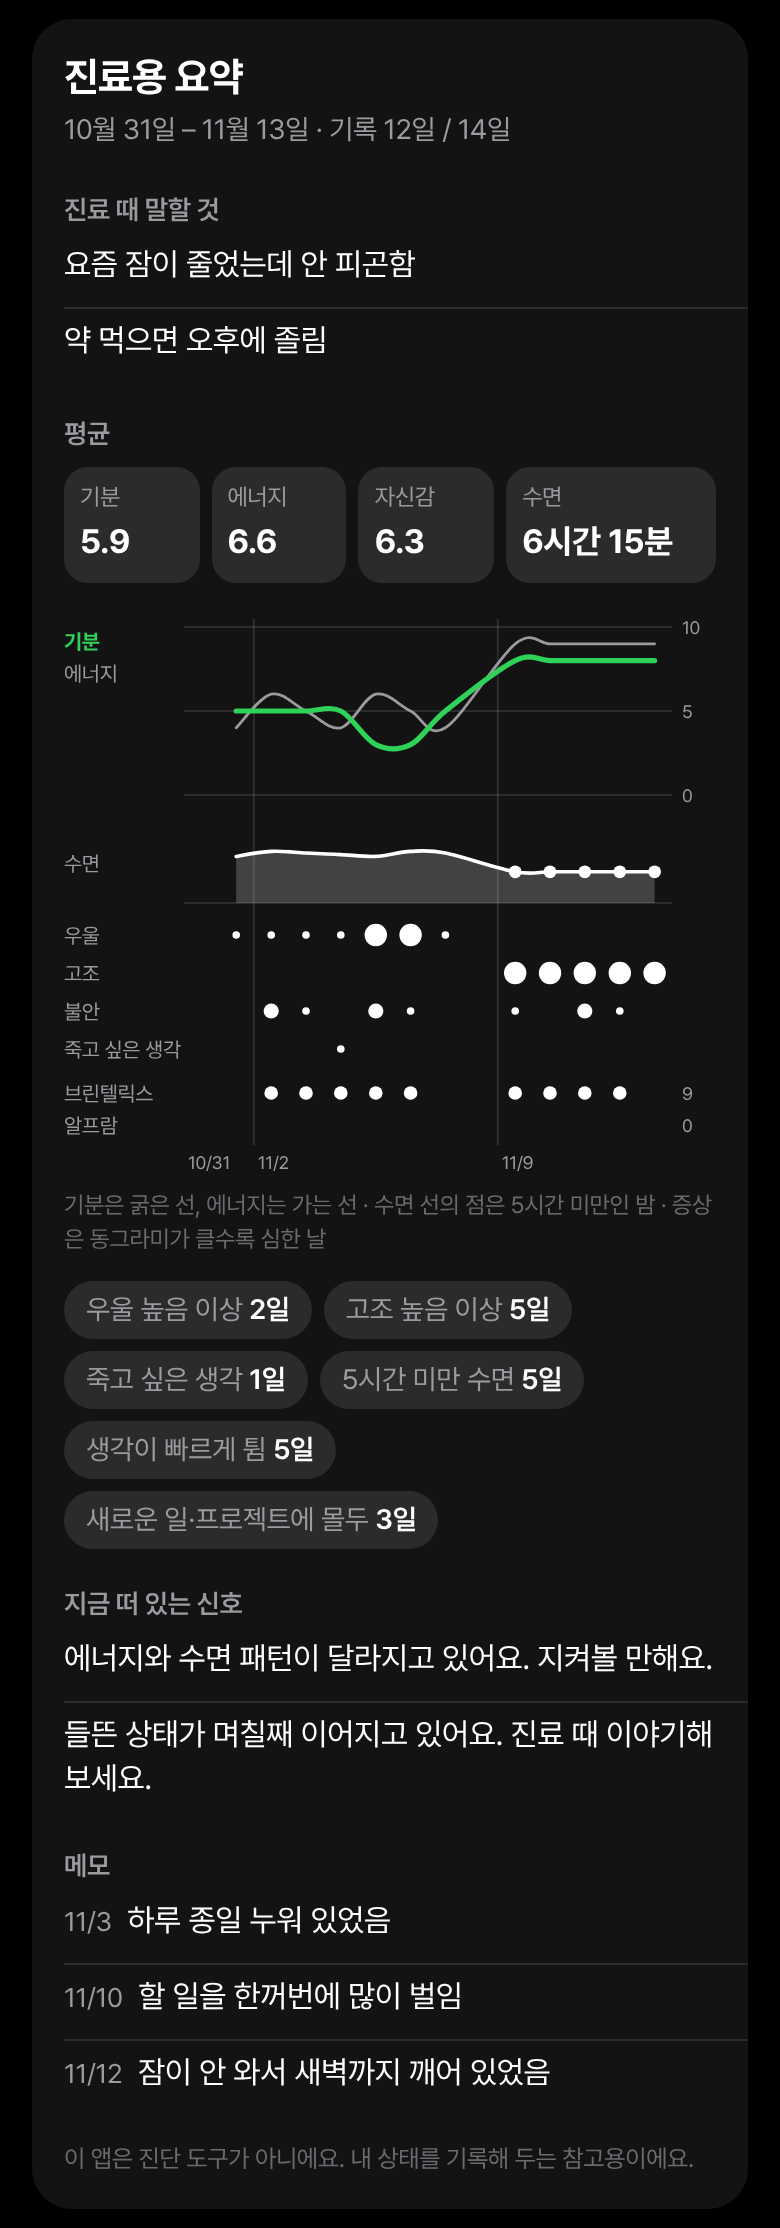
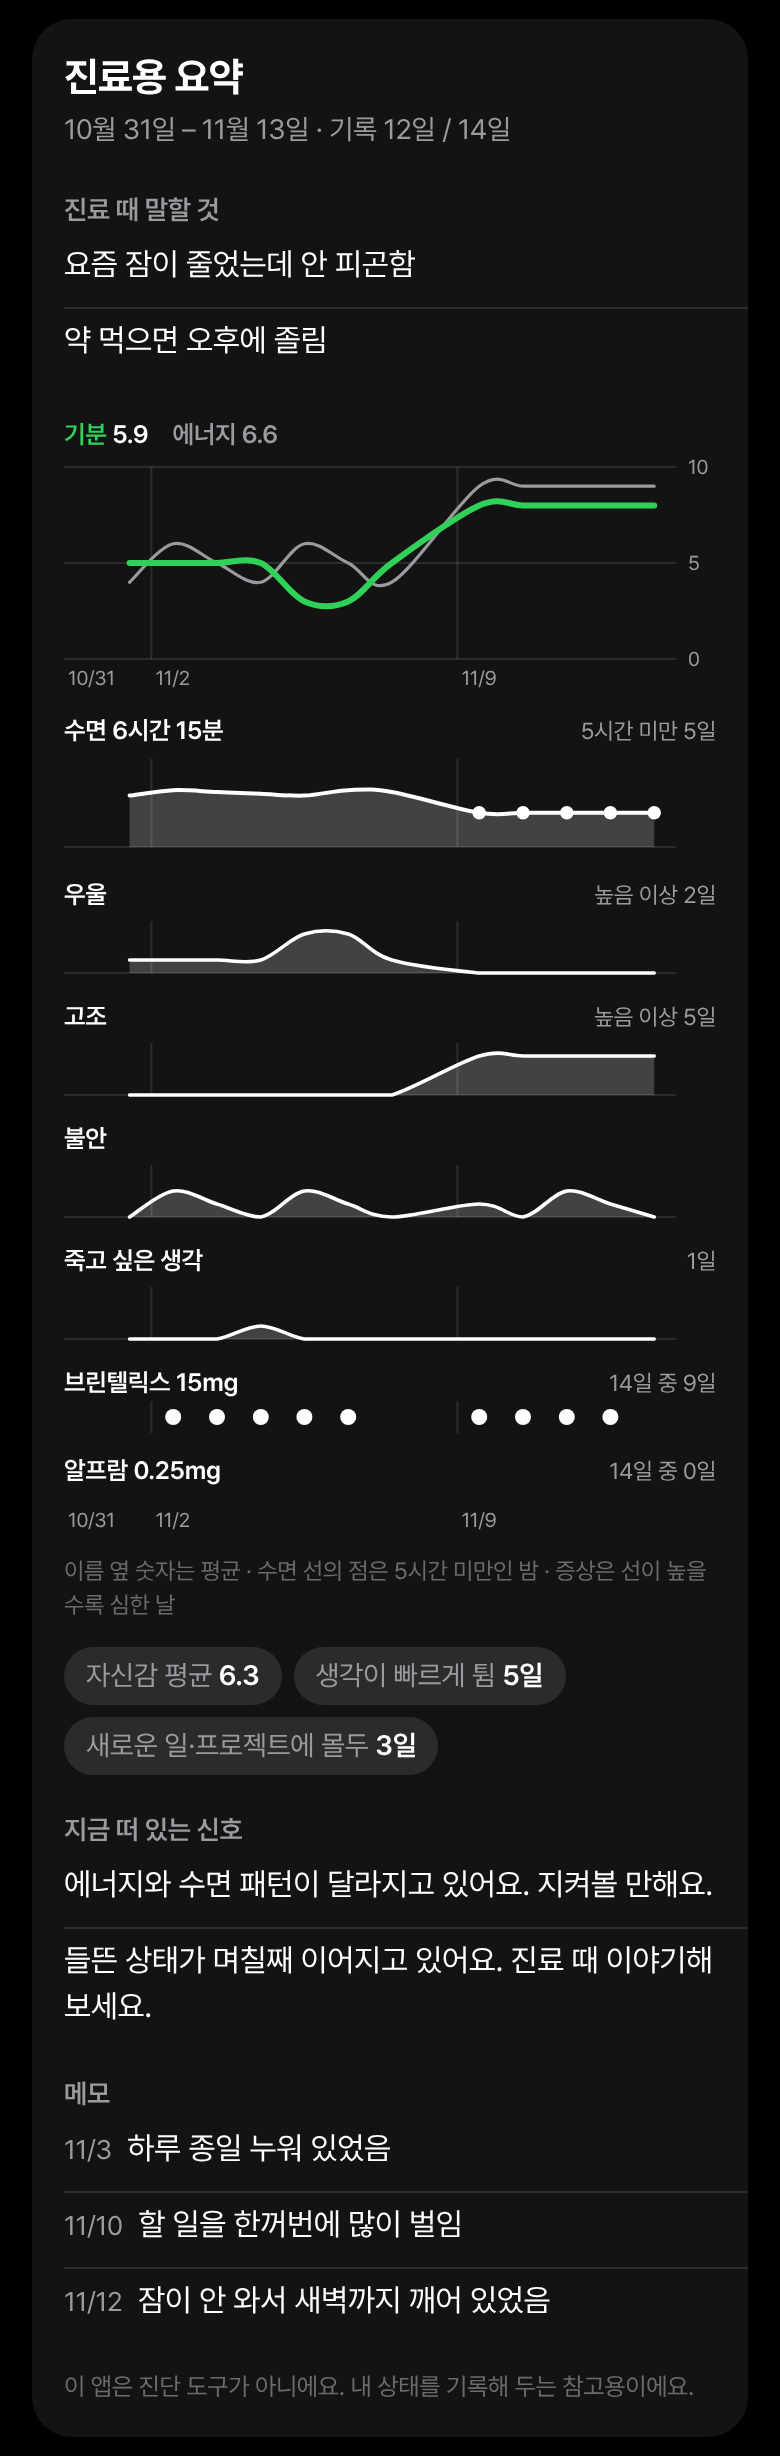
Tide: clinic picture stacks one labelled chart per item
The summary picture was hard to read: small labels in a narrow left column and a grid of same-looking dots. Each item now gets its own full-width row with a larger name (and average) on the left and a one-line count on the right; symptoms are smooth curves like mood instead of sized dots. The separate average boxes and the chips that repeated the picture are gone.

Claude-Session: https://claude.ai/code/session_01Du4KAy7crrN67i73oW7iBF

diff --git a/mood/js/views/clinic.js b/mood/js/views/clinic.js
@@ -25,80 +25,90 @@ function nextText() {
   return left > 0 ? F('진료까지 {0}일', left) : left === 0 ? T('오늘 진료') : '';
 }
 
-// 한눈에 보는 그림: 날짜를 가로로 맞춰 놓고 위에서부터
-//   기분(굵은 선)·에너지(가는 선) → 수면(선, 5시간 미만인 밤에 점) → 증상(동그라미가 클수록 심함) → 약(먹은 날에 점) → 생리(점)
-// 를 한 장에 쌓는다. 선은 전부 부드러운 곡선(점선 없음), 표시는 전부 동그라미로 통일한다.
-// 색은 CSS 변수를 따라가서 다크·라이트·인쇄에서 그대로 읽힌다.
+// 한눈에 보는 그림: 날짜를 가로로 맞춰 놓고 항목마다 한 칸씩 위에서 아래로 쌓는다.
+// 칸마다 왼쪽 위에 이름(과 평균), 오른쪽 위에 한 줄 요약, 그 아래에 그림이 온다.
+//   기분·에너지(곡선) → 수면(곡선, 5시간 미만인 밤에 점) → 증상(곡선, 높을수록 심함) → 약·생리(그날에 점)
+// 선은 전부 부드러운 실선, 표시는 전부 동그라미다. 색은 CSS 변수를 따라가서 다크·라이트·인쇄에서 그대로 읽힌다.
 function figure(s, width) {
-  const n = s.dates.length, L = 60, R = 22, pw = width - L - R, col = pw / n;
-  const cx = (i) => L + col * (i + 0.5);
+  const n = s.dates.length, pw = width - 20, col = pw / n;
+  const cx = (i) => col * (i + 0.5);
   const ink = 'style="fill:var(--ink)"', mutedText = 'style="fill:var(--muted)"';
   const accent = tone('mood', 10) || 'var(--ink)';
-  const label = (y, text, style) => `<text x="0" y="${y}" font-size="10.5" ${style || mutedText}>${text}</text>`;
-  let out = '', y = 4;
+  const marks = s.dates.map((d, i) => (i === 0 || parse(d).getDay() === 1 ? i : -1)).filter((i) => i >= 0);
+  let out = '', y = 12;
+
+  const head = (left, right) => {
+    out += `<text x="0" y="${y}" font-size="12.5" font-weight="600" ${ink}>${left}</text>`;
+    if (right) out += `<text x="${width}" y="${y}" font-size="11.5" text-anchor="end" ${mutedText}>${right}</text>`;
+  };
+  // 주마다(월요일) 세로줄: 그림이 있는 칸 안에만 긋는다
+  const weekLines = (y1, y2) => marks.filter(Boolean).forEach((i) => {
+    out += `<line x1="${(col * i).toFixed(1)}" x2="${(col * i).toFixed(1)}" y1="${y1}" y2="${y2}" style="stroke:var(--line)"/>`;
+  });
+  const dateLabels = (at) => marks.forEach((i) => {
+    out += `<text x="${(col * i + 2).toFixed(1)}" y="${at}" font-size="10" ${mutedText}>${shortDate(s.dates[i])}</text>`;
+  });
+  const points = (key, yOf) => s.days.map((e, i) => (e && e[key] != null ? [cx(i), yOf(e[key]), e[key]] : null)).filter(Boolean);
+  // 값이 있는 날들을 부드러운 곡선으로 잇는다 (하루뿐이면 점 하나). area가 있으면 곡선 아래를 옅게 채운다.
+  const curve = (pts, yMin, yMax, color, w, area) => {
+    if (pts.length < 2) { pts.forEach((p) => { out += `<circle cx="${p[0].toFixed(1)}" cy="${p[1].toFixed(1)}" r="2.6" style="fill:${color}"/>`; }); return; }
+    const d = smoothPath(pts, yMin, yMax);
+    if (area) out += `<path d="${d}L${pts[pts.length - 1][0].toFixed(1)},${yMax}L${pts[0][0].toFixed(1)},${yMax}Z" style="fill:var(--fill)" stroke="none"/>`;
+    out += `<path d="${d}" fill="none" stroke-linejoin="round" stroke-linecap="round" style="stroke:${color}" stroke-width="${w}"/>`;
+  };
+  const floor = (at) => { out += `<line x1="0" x2="${pw}" y1="${at}" y2="${at}" style="stroke:var(--line)"/>`; };
+  const dots = (has) => {
+    const r = Math.max(2, Math.min(col / 2 - 1, 4));
+    s.dates.forEach((d, i) => { if (has(d, s.days[i])) out += `<circle cx="${cx(i).toFixed(1)}" cy="${y + 13}" r="${r.toFixed(1)}" ${ink}/>`; });
+    weekLines(y + 5, y + 21);
+  };
+  const avgOf = (st) => (st ? ` ${one(st.avg)}` : '');
 
   // 1. 기분 · 에너지 (0~10)
-  const SH = 84, top = y, sy = (v) => top + (1 - v / 10) * SH;
-  [0, 5, 10].forEach((v) => {
-    out += `<line x1="${L}" x2="${L + pw}" y1="${sy(v)}" y2="${sy(v)}" style="stroke:var(--line)"/><text x="${L + pw + 5}" y="${sy(v) + 3.5}" font-size="9" ${mutedText}>${v}</text>`;
-  });
-  // 값이 있는 날들을 부드러운 곡선으로 잇는다 (하루뿐이면 점 하나)
-  const curve = (pts, yMin, yMax, style) => (pts.length > 1
-    ? `<path d="${smoothPath(pts, yMin, yMax)}" fill="none" stroke-linejoin="round" stroke-linecap="round" ${style}/>`
-    : pts.map((p) => `<circle cx="${p[0].toFixed(1)}" cy="${p[1].toFixed(1)}" r="2.4" ${style.replace('stroke:', 'fill:')}/>`).join(''));
-  const points = (key, yOf) => s.days.map((e, i) => (e && e[key] != null ? [cx(i), yOf(e[key]), e[key]] : null)).filter(Boolean);
-  out += curve(points('energy', sy), top, top + SH, 'style="stroke:var(--muted)" stroke-width="1.4"');
-  out += curve(points('mood', sy), top, top + SH, `style="stroke:${accent}" stroke-width="2.6"`);
-  out += `<text x="0" y="${top + 11}" font-size="10.5" font-weight="700" style="fill:${accent}">${T('기분')}</text>${label(top + 27, T('에너지'))}`;
-  y = top + SH + 14;
+  head(`<tspan style="fill:${accent}">${T('기분')}</tspan>${avgOf(s.mood)}<tspan dx="12" ${mutedText}>${T('에너지')}${avgOf(s.energy)}</tspan>`);
+  const SH = 96, top = y + 12, sy = (v) => top + (1 - v / 10) * SH;
+  [0, 5, 10].forEach((v) => { floor(sy(v)); out += `<text x="${pw + 6}" y="${sy(v) + 3.5}" font-size="10" ${mutedText}>${v}</text>`; });
+  weekLines(top, top + SH);
+  curve(points('energy', sy), top, top + SH, 'var(--muted)', 1.6);
+  curve(points('mood', sy), top, top + SH, accent, 3);
+  dateLabels(top + SH + 13);
+  y = top + SH + 40;
 
-  // 2. 수면 (0~12시간): 곡선 아래를 옅게 채우고, 5시간 미만인 밤에는 점을 찍는다
-  const BH = 40, base = y + BH, slY = (m) => base - Math.min(m, 720) / 720 * BH;
-  const sleepPts = points('sleepMin', slY);
-  if (sleepPts.length > 1) {
-    out += `<path d="${smoothPath(sleepPts, y, base)}L${sleepPts[sleepPts.length - 1][0].toFixed(1)},${base}L${sleepPts[0][0].toFixed(1)},${base}Z" style="fill:var(--fill)" stroke="none"/>`;
-  }
-  out += curve(sleepPts, y, base, 'style="stroke:var(--ink)" stroke-width="1.8"');
-  sleepPts.filter((p) => p[2] < SHORT_SLEEP).forEach((p) => { out += `<circle cx="${p[0].toFixed(1)}" cy="${p[1].toFixed(1)}" r="3.2" ${ink}/>`; });
-  out += `<line x1="${L}" x2="${L + pw}" y1="${base}" y2="${base}" style="stroke:var(--line)"/>`;
-  out += label(y + 24, T('수면'));
-  y = base + 16;
+  // 2. 수면 (0~12시간): 5시간 미만인 밤에는 점을 찍는다
+  head(`${T('수면')}${s.sleep ? ` ${durText(Math.round(s.sleep.avg))}` : ''}`, s.shortSleep.length ? F('5시간 미만 {0}일', s.shortSleep.length) : '');
+  const BH = 44, sTop = y + 10, base = sTop + BH, sleepPts = points('sleepMin', (m) => base - Math.min(m, 720) / 720 * BH);
+  weekLines(sTop, base);
+  curve(sleepPts, sTop, base, 'var(--ink)', 2, true);
+  sleepPts.filter((p) => p[2] < SHORT_SLEEP).forEach((p) => { out += `<circle cx="${p[0].toFixed(1)}" cy="${p[1].toFixed(1)}" r="3.4" ${ink}/>`; });
+  floor(base);
+  y = base + 28;
 
-  // 3. 증상: 동그라미 크기가 정도 (없음은 안 그린다)
-  const rmax = Math.max(2, Math.min(col / 2 - 0.5, 7.5));
+  // 3. 증상 (없음~매우 높음): 선이 높을수록 심한 날. 한 번도 없었으면 그림 없이 "없음"만 적는다.
   [['dep', T('우울')], ['elev', T('고조')], ['anx', T('불안')], ['si', T('죽고 싶은 생각')]].forEach(([key, name]) => {
-    out += label(y + 4, name);
-    s.days.forEach((e, i) => { if (e && e[key]) out += `<circle cx="${cx(i).toFixed(1)}" cy="${y}" r="${(rmax * e[key] / 4).toFixed(1)}" ${ink}/>`; });
-    y += 19;
+    const any = s.days.some((e) => e && e[key]), high = s.high[key].length;
+    head(name, high ? F(key === 'si' ? '{0}일' : '높음 이상 {0}일', high) : any ? '' : T('없음'));
+    if (!any) { y += 24; return; }
+    const H = 26, t = y + 9, b = t + H;
+    weekLines(t, b);
+    curve(points(key, (v) => b - v / 4 * H), t, b, 'var(--ink)', 1.8, true);
+    floor(b);
+    y = b + 26;
   });
-  y += 3;
 
-  // 4. 약: 먹은 날에 점, 오른쪽 끝에 먹은 날 수
-  const mr = Math.max(1.6, Math.min(col / 2 - 1, 3.4));
+  // 4. 약 · 생리: 그날에 점
   s.meds.forEach(([m, count]) => {
-    out += label(y + 4, esc(m.name.length > 5 ? `${m.name.slice(0, 5)}…` : m.name));
-    s.dates.forEach((d, i) => {
-      if (medsFor(d).some((x) => medKey(x) === medKey(m))) out += `<circle cx="${cx(i).toFixed(1)}" cy="${y}" r="${mr.toFixed(1)}" ${ink}/>`;
-    });
-    out += `<text x="${L + pw + 5}" y="${y + 3.5}" font-size="9" ${mutedText}>${count}</text>`;
-    y += 16;
+    head(esc(`${m.name}${m.dose ? ` ${m.dose}` : ''}`), F('{0}일 중 {1}일', n, count));
+    if (count) dots((d) => medsFor(d).some((x) => medKey(x) === medKey(m)));
+    y += count ? 44 : 24;
   });
-
-  // 5. 생리: 그날에 점
   if (s.period.length) {
-    out += label(y + 4, T('생리'));
-    s.days.forEach((e, i) => { if (e && e.period) out += `<circle cx="${cx(i).toFixed(1)}" cy="${y}" r="${mr.toFixed(1)}" ${ink}/>`; });
-    y += 16;
+    head(T('생리'), F('{0}일', s.period.length));
+    dots((d, e) => e && e.period);
+    y += 44;
   }
-
-  // 날짜 눈금: 주마다(월요일) 세로줄과 날짜
-  let weeks = '';
-  s.dates.forEach((d, i) => {
-    if (parse(d).getDay() !== 1 && i !== 0) return;
-    if (i) weeks += `<line x1="${(L + col * i).toFixed(1)}" x2="${(L + col * i).toFixed(1)}" y1="0" y2="${y - 6}" style="stroke:var(--line)"/>`;
-    weeks += `<text x="${(L + col * i + 2).toFixed(1)}" y="${y + 6}" font-size="9" ${mutedText}>${shortDate(d)}</text>`;
-  });
-  return `<svg id="sum-fig" width="${width}" height="${y + 10}" role="img" aria-label="${T('진료용 요약')}">${weeks}${out}</svg>`;
+  dateLabels(y);
+  y += 8;
+  return `<svg id="sum-fig" width="${width}" height="${y}" role="img" aria-label="${T('진료용 요약')}">${out}</svg>`;
 }
 
 // 요약에 들어갈 줄들: [이름, 내용]. 화면과 복사용 글이 같은 줄을 쓴다.
@@ -121,21 +131,15 @@ function summaryRows(s) {
 export function summaryHtml(weeks) {
   const s = summary(weeks), talk = clinicData().notes;
   const width = Math.max(240, Math.min(app.clientWidth, 480) - 32 - 32);
-  const stat = (name, st, fmt) => `<div class="sum-stat"><span>${name}</span><b>${st ? fmt(st.avg) : '–'}</b></div>`;
-  // 눈에 띄는 것은 짧은 딱지로: 날짜는 그림에서 보이니 며칠인지만 적는다
+  // 그림에 안 나오는 것만 짧은 딱지로: 자신감 평균, 기분이 높았던 날 체크한 항목
   const chips = [
-    [T('우울 높음 이상'), s.high.dep.length], [T('고조 높음 이상'), s.high.elev.length], [T('불안 높음 이상'), s.high.anx.length],
-    [T('죽고 싶은 생각'), s.high.si.length], [T('5시간 미만 수면'), s.shortSleep.length], ...s.signs,
-  ].filter(([, c]) => c).map(([name, c]) => `<span class="sum-chip">${esc(name)} <b>${F('{0}일', c)}</b></span>`).join('');
+    ...(s.conf ? [[T('자신감 평균'), one(s.conf.avg)]] : []), ...s.signs.map(([name, c]) => [name, F('{0}일', c)]),
+  ].map(([name, value]) => `<span class="sum-chip">${esc(name)} <b>${value}</b></span>`).join('');
   return `
     <div class="sum-top"><b>${T('진료용 요약')}</b><span>${md(parse(s.dates[0]))} – ${md(parse(s.dates[s.dates.length - 1]))} · ${F('기록 {0}일 / {1}일', s.got.length, s.dates.length)}</span></div>
     ${talk.length ? `<div class="sum-h">${T('진료 때 말할 것')}</div>${talk.map((x) => `<div class="li say">${esc(x)}</div>`).join('')}` : ''}
-    <div class="sum-h">${T('평균')}</div>
-    <div class="sum-stats">
-      ${stat(T('기분'), s.mood, one)}${stat(T('에너지'), s.energy, one)}${stat(T('자신감'), s.conf, one)}${stat(T('수면'), s.sleep, (m) => durText(Math.round(m)))}
-    </div>
     <div class="sum-fig">${figure(s, width)}</div>
-    <p class="sum-key">${T('기분은 굵은 선, 에너지는 가는 선 · 수면 선의 점은 5시간 미만인 밤 · 증상은 동그라미가 클수록 심한 날')}</p>
+    <p class="sum-key">${T('이름 옆 숫자는 평균 · 수면 선의 점은 5시간 미만인 밤 · 증상은 선이 높을수록 심한 날')}</p>
     ${chips ? `<div class="sum-chips">${chips}</div>` : ''}
     ${s.signals.length ? `<div class="sum-h">${T('지금 떠 있는 신호')}</div>${s.signals.map((x) => `<div class="li say">${esc(x)}</div>`).join('')}` : ''}
     ${s.notes.length ? `<div class="sum-h">${T('메모')}</div>${s.notes.map(([d, note]) => `<div class="li say note"><small>${shortDate(d)}</small> ${esc(note)}</div>`).join('')}` : ''}

diff --git a/mood/app.css b/mood/app.css
@@ -365,14 +365,10 @@ input[type=date] { border: 0; outline: none; background: var(--card2); color: va
 .lock-pad .lock-txt { background: none; font-family: inherit; font-size: calc(14px * var(--fs, 1.12)); color: var(--muted); }
 
 /* 진료용 요약: 숫자 네 칸, 한눈에 보는 그림, 딱지 */
-.sum-stats { display: grid; grid-template-columns: 1fr 1fr 1fr 1.55fr; gap: 6px; padding: 6px 16px 4px; }
-.sum-stat { background: var(--card2); border-radius: 12px; padding: 8px 8px 9px; min-width: 0; }
-.sum-stat span { display: block; color: var(--muted); font-size: calc(10.5px * var(--fs, 1.12)); white-space: nowrap; overflow: hidden; text-overflow: ellipsis; }
-.sum-stat b { display: block; font-family: var(--round); font-size: calc(15px * var(--fs, 1.12)); margin-top: 2px; white-space: nowrap; }
-.sum-fig { padding: 14px 16px 0; }
+.sum-fig { padding: 18px 16px 0; }
 .sum-fig svg { display: block; overflow: visible; font-family: inherit; }
 .sum-key { color: var(--faint); font-size: calc(10.5px * var(--fs, 1.12)); margin: 6px 16px 0; line-height: 1.45; }
 .sum-chips { display: flex; flex-wrap: wrap; gap: 6px; padding: 12px 16px 2px; }
 .sum-chip { background: var(--card2); border-radius: 999px; padding: 5px 11px; font-size: calc(12.5px * var(--fs, 1.12)); color: var(--muted); }
 .sum-chip b { color: var(--text); font-weight: 600; }
-@media print { .sum-stat, .sum-chip { border: 1px solid #ccc; } }
+@media print { .sum-chip { border: 1px solid #ccc; } }

diff --git a/mood/tests/smoke.js b/mood/tests/smoke.js
@@ -198,8 +198,8 @@ function seed() {
 
   // 5-2. 진료 탭: 다음 진료일, 말할 것, 요약
   await page.click('[data-tab=clinic]');
-  check('진료용 요약에 그림과 눈에 띄는 날, 약이 나옴', (await page.$$('#sum-fig circle')).length > 10 && (await page.$$('#sum-fig path')).length >= 3 && (await page.$$('#sum-fig rect')).length === 0
-    && (await text('#summary')).includes('고조 높음 이상') && (await text('#sum-fig')).includes('브린텔릭스') && (await text('#summary')).includes('5시간 미만 수면'));
+  check('진료용 요약에 그림과 눈에 띄는 날, 약이 나옴', (await page.$$('#sum-fig circle')).length > 3 && (await page.$$('#sum-fig path')).length >= 5 && (await page.$$('#sum-fig rect')).length === 0
+    && (await text('#sum-fig')).includes('높음 이상') && (await text('#sum-fig')).includes('브린텔릭스') && (await text('#sum-fig')).includes('5시간 미만'));
   check('요약 그림이 카드 밖으로 안 넘침', await page.evaluate(() => document.querySelector('#sum-fig').getBoundingClientRect().right <= document.querySelector('#summary').getBoundingClientRect().right));
   await page.fill('#c-note', '약 먹으면 오후에 졸림'); await page.press('#c-note', 'Enter');
   check('말할 것 추가 (엔터)', (await store()).clinic.notes[0] === '약 먹으면 오후에 졸림' && (await text('#summary')).includes('약 먹으면 오후에 졸림'));

diff --git a/mood/js/i18n.js b/mood/js/i18n.js
@@ -50,7 +50,10 @@ const DICT = {
   '추가': 'Add',
   '진료용 요약': 'Summary for your appointment',
   '평균 (가장 낮은 날–가장 높은 날)': 'Average (lowest–highest day)',
-  '기분은 굵은 선, 에너지는 가는 선 · 수면 선의 점은 5시간 미만인 밤 · 증상은 동그라미가 클수록 심한 날': 'Mood is the thick line, energy the thin line · dots on the sleep line are nights under 5 hours · larger symptom dots mean a harder day',
+  '이름 옆 숫자는 평균 · 수면 선의 점은 5시간 미만인 밤 · 증상은 선이 높을수록 심한 날': 'Numbers beside names are averages · dots on the sleep line are nights under 5 hours · a higher symptom line means a harder day',
+  '자신감 평균': 'Confidence avg',
+  '5시간 미만 {0}일': 'Under 5 h on {0} days',
+  '높음 이상 {0}일': 'High or above on {0} days',
   '눈에 띄는 날': 'Days that stand out',
   '지금 떠 있는 신호': 'Current signals',
   '기분이 높았던 날 체크한 항목': 'Items checked on high days',

diff --git a/mood/sw.js b/mood/sw.js
@@ -1,7 +1,7 @@
 // 오프라인에서도 열리도록 앱 파일을 저장해 둔다.
 // 인터넷이 될 때는 항상 최신 파일을 먼저 받아오고, 안 될 때만 저장본을 쓴다.
 // 앱 파일을 바꿔서 올릴 때마다 CACHE 숫자를 하나 올린다. js/ 에 파일을 더하면 JS 목록에도 더한다.
-const CACHE = 'tide-v46';
+const CACHE = 'tide-v47';
 const JS = ['main', 'config', 'i18n', 'constants', 'store', 'dates', 'theme', 'icons', 'dom', 'state', 'meds', 'analysis', 'files', 'render', 'swipe', 'lock',
   'views/today', 'views/trend', 'views/insight', 'views/record', 'views/settings', 'views/clinic', 'views/notes'];
 const FILES = ['./', 'index.html', 'app.css', 'manifest.webmanifest',

diff --git a/mood/js/config.js b/mood/js/config.js
@@ -2,4 +2,4 @@
 export const KEY = 'tide.v1', OLD_KEY = 'harugyeol.v1';
 
 // 설정 화면 맨 아래에 보이는 번호. 올릴 때마다 sw.js의 CACHE 숫자와 같이 하나 올린다.
-export const VERSION = 46;
+export const VERSION = 47;
